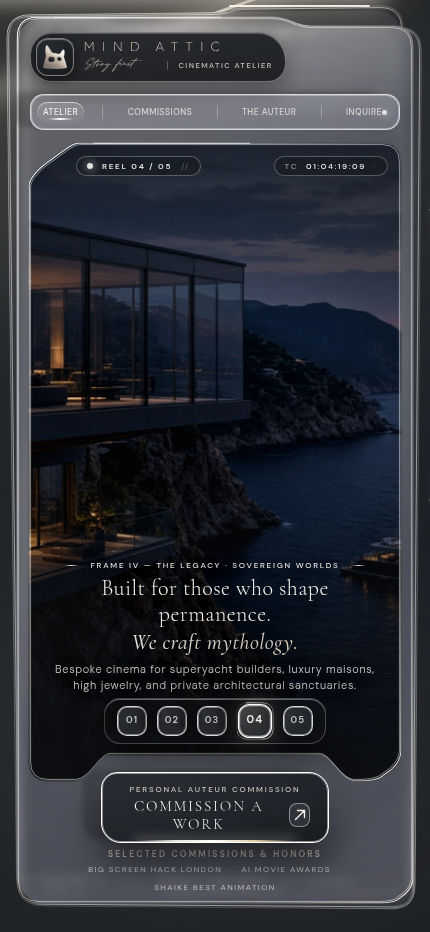
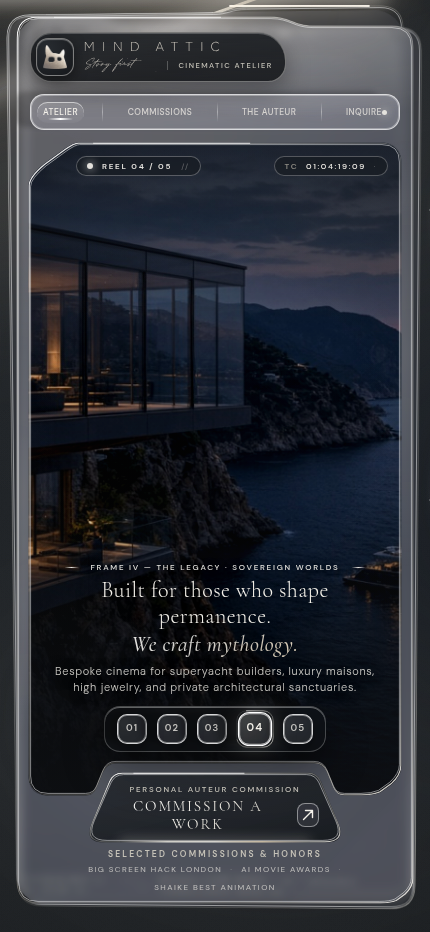
Shape the commission button to the cinema notch.
The button is now a tapered trapezoid with rounded shoulders and a dual rim. The viewport cutout uses the same slope, leaving a dark channel between the two rims on desktop and mobile.

diff --git a/assets/js/app.js b/assets/js/app.js
@@ -199,6 +199,97 @@
     ].join(" ");
   }
 
+  function layoutIsMobile() {
+    return window.matchMedia("(max-width: 768px)").matches;
+  }
+
+  /**
+   * Taper and fillet lengths for the commission trapezoid.
+   * Top flat is narrower than the bottom by `taper` on each side.
+   * tanTop / tanBot are the tangent lengths of the rounded shoulders.
+   */
+  function ctaMetrics(w, h, inset) {
+    const isMobile = layoutIsMobile();
+    const taper = isMobile ? Math.round(w * 0.11) : Math.round(w * 0.12);
+    const rTop = isMobile ? 14 : 18;
+    const rBot = isMobile ? 14 : 18;
+    const x0 = inset;
+    const y0 = inset;
+    const x1 = w - inset;
+    const y1 = h - inset;
+    const innerW = Math.max(1, x1 - x0);
+    const innerH = Math.max(1, y1 - y0);
+    const t = Math.min(taper, innerW * 0.22);
+    const side = Math.hypot(t, innerH);
+    const ux = t / side;
+    const uy = innerH / side;
+    const interiorTop = Math.acos(Math.max(-1, Math.min(1, -ux)));
+    const interiorBot = Math.acos(Math.max(-1, Math.min(1, ux)));
+    const topRoom = Math.max(8, (innerW - 2 * t) / 2 - 4);
+    const tanTop = Math.min(Math.max(6, rTop * Math.tan((Math.PI - interiorTop) / 2)), topRoom, side * 0.38);
+    const tanBot = Math.min(Math.max(6, rBot * Math.tan((Math.PI - interiorBot) / 2)), innerW / 2 - 4, side * 0.38);
+    return { t, tanTop, tanBot, side, ux, uy, slope: t / innerH, x0, y0, x1, y1 };
+  }
+
+  /**
+   * Symmetrical tapered trapezoid. Every corner is a quadratic fillet
+   * tangent to both edges, so the shoulders stay rounded.
+   */
+  function buildCtaPath(w, h, inset) {
+    const { t, tanTop, tanBot, ux, uy, x0, y0, x1, y1 } = ctaMetrics(w, h, inset);
+    const trX = x1 - t + ux * tanTop;
+    const trY = y0 + uy * tanTop;
+    const brX = x1 - ux * tanBot;
+    const brY = y1 - uy * tanBot;
+    const blX = x0 + ux * tanBot;
+    const blY = y1 - uy * tanBot;
+    const tlX = x0 + t - ux * tanTop;
+    const tlY = y0 + uy * tanTop;
+
+    return [
+      `M ${x0 + t + tanTop} ${y0}`,
+      `L ${x1 - t - tanTop} ${y0}`,
+      `Q ${x1 - t} ${y0} ${trX} ${trY}`,
+      `L ${brX} ${brY}`,
+      `Q ${x1} ${y1} ${x1 - tanBot} ${y1}`,
+      `L ${x0 + tanBot} ${y1}`,
+      `Q ${x0} ${y1} ${blX} ${blY}`,
+      `L ${tlX} ${tlY}`,
+      `Q ${x0 + t} ${y0} ${x0 + t + tanTop} ${y0}`,
+      "Z",
+    ].join(" ");
+  }
+
+  /**
+   * Pocket that mirrors the CTA trapezoid: same slope, ceiling and sides
+   * held a uniform channel off the button's top and shoulders.
+   */
+  function measureCtaNotch(vpEl, btnEl) {
+    const isMobile = layoutIsMobile();
+    const channel = isMobile ? 8 : 9;
+    const v = vpEl.getBoundingClientRect();
+    const b = btnEl.getBoundingClientRect();
+    const W = btnEl.clientWidth;
+    const H = btnEl.clientHeight;
+    if (W < 2 || H < 2 || v.width < 2) return null;
+
+    const shape = ctaMetrics(W, H, 0);
+    const btnTop = b.top - v.top;
+    const overlap = v.height - btnTop;
+    const depth = Math.max(channel + 16, overlap + channel);
+    const topHalf = W / 2 - shape.t;
+    const ceilingHalf = topHalf + (channel * shape.side) / H - shape.slope * channel;
+
+    return {
+      depth,
+      ceilingHalf,
+      slope: shape.slope,
+      shoulder: shape.tanTop,
+      mouthRadius: isMobile ? 8 : 14,
+      center: b.left - v.left + b.width / 2,
+    };
+  }
+
   /**
    * Generates the Sculpted Asymmetrical Cinema Viewport Path:
    * - Top-left tailored diagonal/S-curve chamfer echoing the Creature's ear angle
@@ -207,7 +298,7 @@
    * - Sculpted bottom-center trapezoid S-curve sanctuary notch for the "Commission a Work" CTA dock
    *   (upgraded from Attachment 3's bottom CTA notch)
    */
-  function buildViewportPath(w, h, inset) {
+  function buildViewportPath(w, h, inset, notch) {
     const isMobile = w < 768;
     const r = isMobile ? 20 : 28;
     const rad = Math.max(6, r - inset);
@@ -220,25 +311,51 @@
     const cutX = isMobile ? Math.min(52, Math.round(w * 0.13)) : Math.min(118, Math.round(w * 0.082));
     const cutY = isMobile ? Math.min(34, Math.round(h * 0.065)) : Math.min(68, Math.round(h * 0.095));
 
-    // Bottom-center sculpted notch for the Commission a Work dock.
-    const notchCurve = isMobile ? 26 : 48;
-    const brCutX = isMobile ? 28 : 56;
-    const brCutY = isMobile ? 20 : 42;
-    let notchHalfW = isMobile
-      ? Math.min(122, Math.max(96, Math.round(w * 0.33)))
-      : Math.min(196, Math.max(28, Math.round(w * 0.3)));
-    const notchDepth = isMobile ? 26 : 34;
-    const cx = w * 0.5;
-    // Keep the notch mouth to the left of the bottom-right chamfer.
-    const brLanding = x1 - brCutX - rad * 0.6;
-    const maxHalf = brLanding - cx - notchCurve - 6;
-    if (maxHalf > 48) notchHalfW = Math.min(notchHalfW, maxHalf);
+    // Bottom-center trapezoid notch. Defaults match the tapered CTA;
+    // updateFluidGlassGeometry passes a measured pocket so the channel stays even.
+    let brCutX = isMobile ? 28 : 56;
+    let brCutY = isMobile ? 20 : 42;
+    const notchDepth = notch ? notch.depth : isMobile ? 32 : 44;
+    let ceilingHalf = notch ? notch.ceilingHalf : isMobile ? 108 : 160;
+    const slope = notch ? notch.slope : isMobile ? 0.42 : 0.62;
+    let shoulder = notch ? notch.shoulder : isMobile ? 9 : 12;
+    let mouthR = notch ? notch.mouthRadius : isMobile ? 8 : 14;
+    const cx = notch ? notch.center : w * 0.5;
+    let mouthHalf = ceilingHalf + slope * notchDepth;
 
-    const nLeftStart = cx - notchHalfW - notchCurve;
-    const nLeftInner = cx - notchHalfW + notchCurve * 0.35;
-    const nRightInner = cx + notchHalfW - notchCurve * 0.35;
-    const nRightEnd = cx + notchHalfW + notchCurve;
+    // Keep the bottom-right chamfer outside the notch mouth. On a narrow
+    // phone the tapered button needs the full mouth, so the chamfer yields
+    // instead of pinching the ceiling narrower than the button.
+    const sideRoom = cx - (x0 + rad + mouthR + 8);
+    const rightRoom = x1 - rad * 0.6 - mouthHalf - mouthR - 8 - cx;
+    if (rightRoom < brCutX) brCutX = Math.max(12, rightRoom);
+    if (brCutX < 28 && isMobile) brCutY = Math.max(10, Math.round(brCutY * (brCutX / 28)));
+    if (mouthHalf + mouthR > sideRoom && sideRoom > 48) {
+      mouthHalf = sideRoom - mouthR;
+      ceilingHalf = Math.max(36, mouthHalf - slope * notchDepth);
+    }
+    const sideUnit = Math.hypot(slope, 1);
+    const slopeLen = notchDepth * sideUnit;
+    shoulder = Math.min(shoulder, ceilingHalf - 8, slopeLen * 0.4);
+    mouthR = Math.min(mouthR, slopeLen * 0.36);
+    if (shoulder < 6) shoulder = 6;
+    if (mouthR < 6) mouthR = 6;
+
     const nTopY = y1 - notchDepth;
+    const ux = slope / sideUnit;
+    const uy = 1 / sideUnit;
+    const rCeilX = cx + ceilingHalf;
+    const lCeilX = cx - ceilingHalf;
+    const rMouthX = cx + mouthHalf;
+    const lMouthX = cx - mouthHalf;
+    const rSlopeHighX = rCeilX + ux * shoulder;
+    const rSlopeHighY = nTopY + uy * shoulder;
+    const lSlopeHighX = lCeilX - ux * shoulder;
+    const lSlopeHighY = nTopY + uy * shoulder;
+    const rSlopeLowX = rMouthX - ux * mouthR;
+    const rSlopeLowY = y1 - uy * mouthR;
+    const lSlopeLowX = lMouthX + ux * mouthR;
+    const lSlopeLowY = y1 - uy * mouthR;
 
     return [
       // Start after top-left diagonal sweep
@@ -251,11 +368,15 @@
       `Q ${x1} ${y1 - brCutY} ${x1 - brCutX * 0.35} ${y1 - brCutY * 0.55}`,
       `L ${x1 - brCutX * 0.75} ${y1 - brCutY * 0.15}`,
       `Q ${x1 - brCutX} ${y1} ${x1 - brCutX - rad * 0.6} ${y1}`,
-      // Bottom edge to right side of CTA notch
-      `L ${nRightEnd} ${y1}`,
-      `C ${nRightEnd - notchCurve * 0.55} ${y1}, ${nRightInner + notchCurve * 0.4} ${nTopY}, ${nRightInner} ${nTopY}`,
-      `L ${nLeftInner} ${nTopY}`,
-      `C ${nLeftInner - notchCurve * 0.4} ${nTopY}, ${nLeftStart + notchCurve * 0.55} ${y1}, ${nLeftStart} ${y1}`,
+      // Bottom edge into the tapered CTA notch (rounded mouth, sloped sides, rounded ceiling)
+      `L ${rMouthX + mouthR} ${y1}`,
+      `Q ${rMouthX} ${y1} ${rSlopeLowX} ${rSlopeLowY}`,
+      `L ${rSlopeHighX} ${rSlopeHighY}`,
+      `Q ${rCeilX} ${nTopY} ${rCeilX - shoulder} ${nTopY}`,
+      `L ${lCeilX + shoulder} ${nTopY}`,
+      `Q ${lCeilX} ${nTopY} ${lSlopeHighX} ${lSlopeHighY}`,
+      `L ${lSlopeLowX} ${lSlopeLowY}`,
+      `Q ${lMouthX} ${y1} ${lMouthX - mouthR} ${y1}`,
       // Bottom edge to bottom-left corner
       `L ${x0 + rad} ${y1}`,
       `Q ${x0} ${y1} ${x0} ${y1 - rad}`,
@@ -316,6 +437,7 @@
     const l2 = document.getElementById("glass-layer-2");
     const l3 = document.getElementById("glass-layer-3");
     const vp = document.getElementById("cinema-viewport");
+    const cta = document.getElementById("cta-command-button");
 
     const b1 = elementBox(l1);
     if (b1) {
@@ -344,13 +466,24 @@
       renderDualRimSVG(document.getElementById("svg-layer-3"), dRim, dInset, b3.w, b3.h, true);
     }
 
+    const bcta = elementBox(cta);
+    if (bcta && cta) {
+      const dClip = buildCtaPath(bcta.w, bcta.h, 0.5);
+      const dRim = buildCtaPath(bcta.w, bcta.h, 1.15);
+      const dInset = buildCtaPath(bcta.w, bcta.h, 2.6);
+      applyClip(cta, dClip);
+      renderDualRimSVG(document.getElementById("svg-cta-rim"), dRim, dInset, bcta.w, bcta.h, true);
+    }
+
     // #svg-viewport-rim lives inside #cinema-viewport. Its viewBox is that
     // element's clientWidth × clientHeight, the same box the image fills.
+    // The notch is measured from the CTA so the two rims share a slope.
     const bvp = elementBox(vp);
     if (bvp) {
-      const dClip = buildViewportPath(bvp.w, bvp.h, 0.5);
-      const dRim = buildViewportPath(bvp.w, bvp.h, 1.15);
-      const dInset = buildViewportPath(bvp.w, bvp.h, 2.6);
+      const notch = cta ? measureCtaNotch(vp, cta) : null;
+      const dClip = buildViewportPath(bvp.w, bvp.h, 0.5, notch);
+      const dRim = buildViewportPath(bvp.w, bvp.h, 1.15, notch);
+      const dInset = buildViewportPath(bvp.w, bvp.h, 2.6, notch);
       applyClip(vp, dClip);
       renderDualRimSVG(document.getElementById("svg-viewport-rim"), dRim, dInset, bvp.w, bvp.h, true);
     }
@@ -471,7 +604,7 @@
       const ro = new ResizeObserver(() => {
         window.requestAnimationFrame(updateFluidGlassGeometry);
       });
-      ["stage-assembly", "glass-layer-1", "glass-layer-2", "glass-layer-3", "cinema-viewport"].forEach((id) => {
+      ["stage-assembly", "glass-layer-1", "glass-layer-2", "glass-layer-3", "cinema-viewport", "cta-command-button"].forEach((id) => {
         const el = document.getElementById(id);
         if (el) ro.observe(el);
       });

diff --git a/assets/css/style.css b/assets/css/style.css
@@ -1202,7 +1202,8 @@ html, body {
    Floats partly over the bottom sculpted notch of the cinema viewport */
 .cta-command-dock-wrap {
   position: relative;
-  margin-top: -34px;
+  align-self: start;
+  margin-top: -42px;
   z-index: 14;
 }
 
@@ -1213,15 +1214,13 @@ html, body {
   align-items: center;
   justify-content: center;
   gap: 3px;
-  min-width: 318px;
-  padding: 13px 38px 15px;
-  border-radius: 22px 26px 22px 26px;
+  min-width: 356px;
+  padding: 14px 48px 15px;
   background: linear-gradient(165deg, rgba(32, 36, 41, 0.84) 0%, rgba(20, 23, 27, 0.92) 100%);
   backdrop-filter: blur(8px) saturate(140%);
   -webkit-backdrop-filter: blur(8px) saturate(140%);
-  border: 1px solid #FFFFFF;
+  border: none;
   box-shadow:
-    inset 0 0 0 1px rgba(255, 255, 255, 0.50),
     -17.78px -2.82px 5px rgba(0, 0, 0, 0.20),
     0 18px 38px rgba(0, 0, 0, 0.65),
     0 0 28px rgba(228, 226, 221, 0.14);
@@ -1233,10 +1232,20 @@ html, body {
   overflow: hidden;
 }
 
+.cta-rim-svg {
+  position: absolute;
+  inset: 0;
+  width: 100%;
+  height: 100%;
+  pointer-events: none;
+  z-index: 5;
+  display: block;
+  overflow: visible;
+}
+
 .cta-command-button:hover {
   transform: translateY(-2px) scale(1.05);
   box-shadow:
-    inset 0 0 0 1px rgba(255, 255, 255, 0.65),
     -17.78px -2.82px 5px rgba(0, 0, 0, 0.25),
     0 22px 46px rgba(0, 0, 0, 0.75),
     0 0 36px rgba(244, 241, 234, 0.24);
@@ -1389,7 +1398,7 @@ html, body {
     font-size: clamp(26px, 3vw, 40px);
   }
   .cta-command-button {
-    min-width: 260px;
+    min-width: 356px;
   }
   .brand-sanctuary {
     gap: 12px;
@@ -1566,7 +1575,7 @@ html, body {
 
   .cinema-editorial-copy {
     width: 88%;
-    bottom: 88px;
+    bottom: 100px;
     gap: 6px;
   }
 
@@ -1595,10 +1604,10 @@ html, body {
     line-height: 1.45;
   }
 
-  /* Sits above the 26px commission notch so the stroke does not cross the pills. */
+  /* Sits above the commission notch so the stroke does not cross the pills. */
   .reel-switcher-rail {
     top: auto;
-    bottom: 38px;
+    bottom: 44px;
     left: 50%;
     right: auto;
     transform: translateX(-50%);
@@ -1648,7 +1657,7 @@ html, body {
 
   .cta-command-dock-wrap {
     order: -1;
-    margin-top: -24px;
+    margin-top: -38px;
     position: relative;
     z-index: 14;
     display: flex;
@@ -1657,10 +1666,9 @@ html, body {
 
   .cta-command-button {
     min-width: 0;
-    width: 228px;
-    max-width: 72vw;
-    padding: 8px 18px 9px;
-    border-radius: 16px 20px 16px 20px;
+    width: 264px;
+    max-width: 78vw;
+    padding: 9px 28px 10px;
   }
 
   .cta-title {

diff --git a/index.html b/index.html
@@ -411,6 +411,7 @@
           <!-- Center Sculpted Glass Command CTA Dock ("Commission a Work") -->
           <div class="cta-command-dock-wrap">
             <a href="mailto:andrej@mindattic.io?subject=Commission%20Inquiry%20%E2%80%94%20Mind%20Attic" class="cta-command-button" id="cta-command-button">
+              <svg class="cta-rim-svg" id="svg-cta-rim" aria-hidden="true"></svg>
               <span class="cta-glass-noise" aria-hidden="true"></span>
               <span class="cta-inset-border" aria-hidden="true"></span>
               <span class="cta-kicker">PERSONAL AUTEUR COMMISSION</span>
